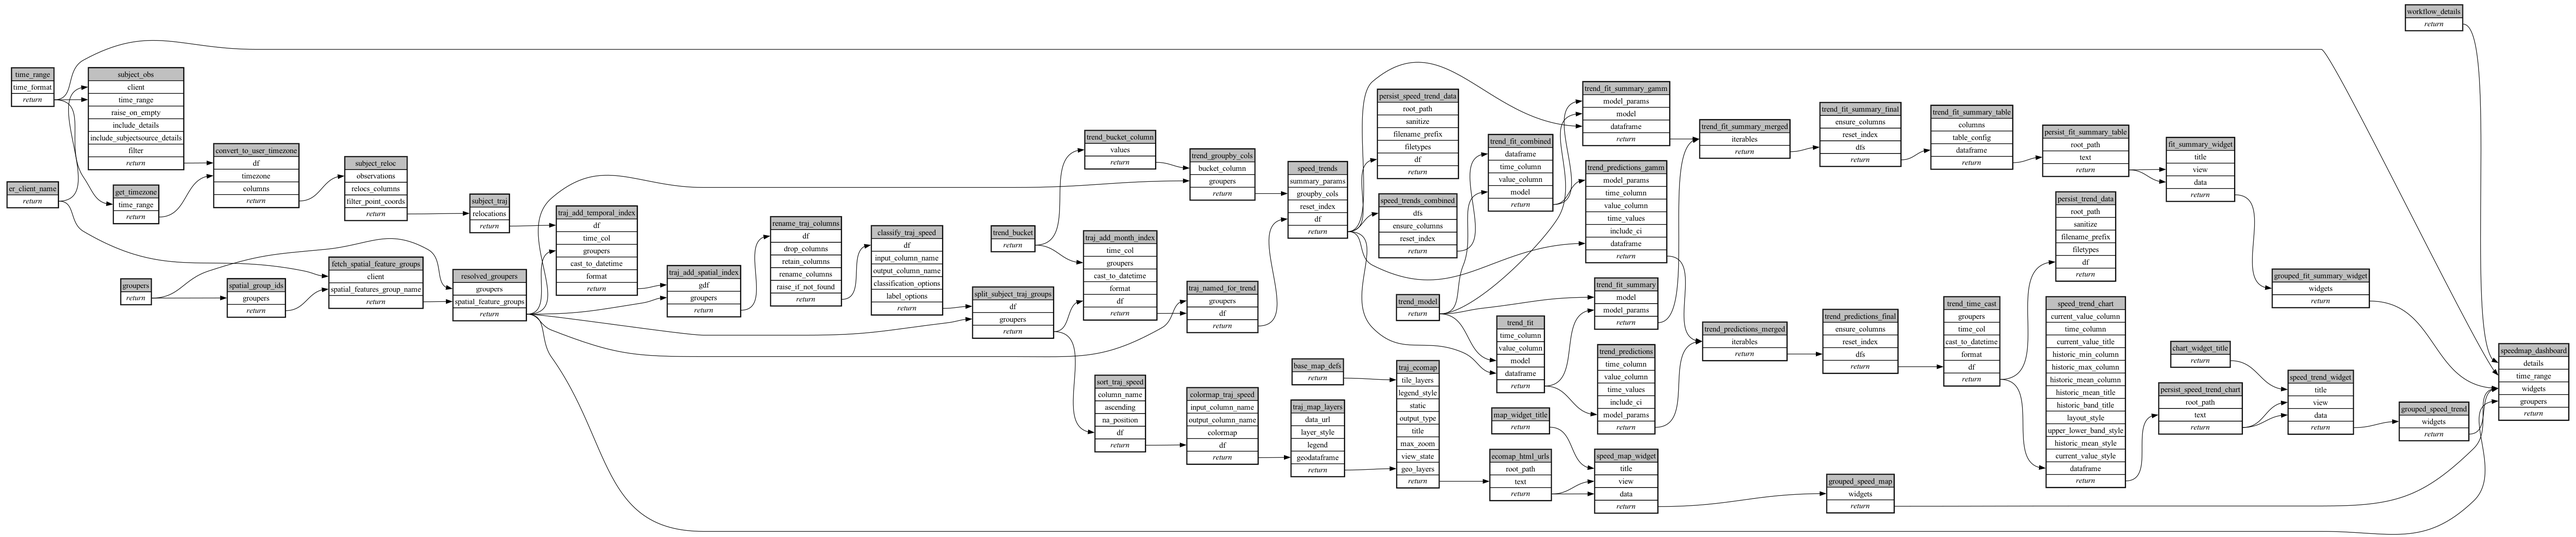
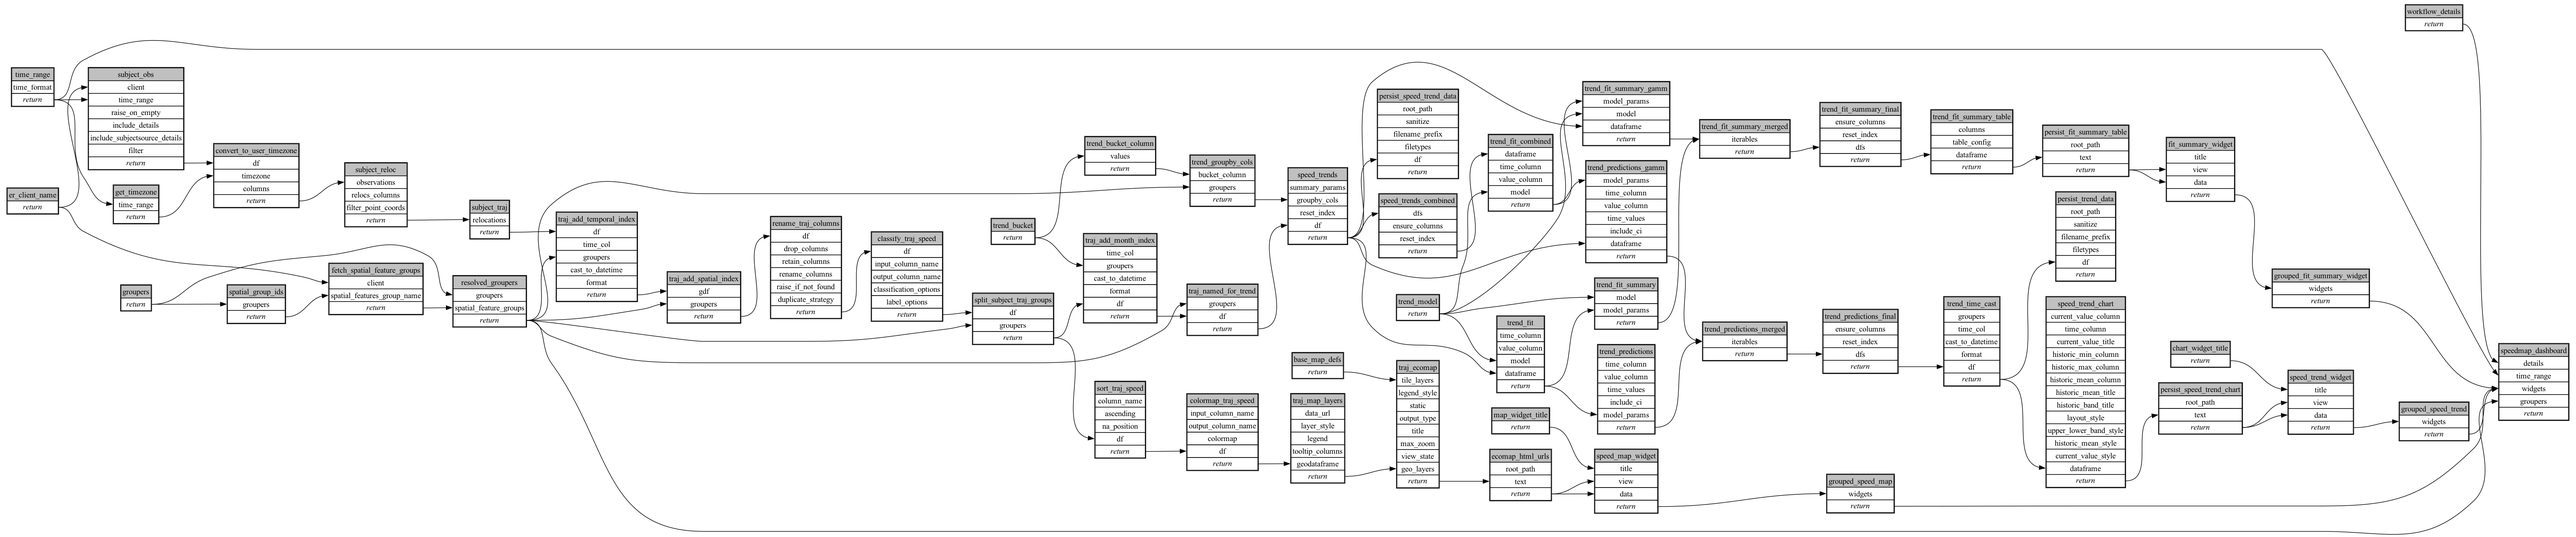
Pin tooltip_columns and duplicate_strategy to hide them from the form
tooltip_columns: None (show all properties) is the only sensible default
for the speed path layer - exposing it as an editable advanced field
added confusion with no real use case.

duplicate_strategy: locked to 'suffix' (its existing default) on the
rename step, since this workflow's column renames never actually
collide and the field had no real use case exposed either.

diff --git a/ecoscope-workflows-speedmap-workflow/ecoscope_workflows_speedmap_workflow/dags/run_sequential.py b/ecoscope-workflows-speedmap-workflow/ecoscope_workflows_speedmap_workflow/dags/run_sequential.py
@@ -410,6 +410,7 @@ def main(params: dict[str, Any], validate_params_schema: bool = True):
                 "extra__sex": "subject_sex",
             },
             raise_if_not_found=True,
+            duplicate_strategy="suffix",
             **(params.get("rename_traj_columns") or {}),
         )
         .call()
@@ -546,6 +547,7 @@ def main(params: dict[str, Any], validate_params_schema: bool = True):
                 "label_column": "speed_bins",
                 "color_column": "speed_bins_colormap",
             },
+            tooltip_columns=None,
             **(params.get("traj_map_layers") or {}),
         )
         .mapvalues(argnames=["geodataframe"], argvalues=colormap_traj_speed)

diff --git a/ecoscope-workflows-speedmap-workflow/ecoscope_workflows_speedmap_workflow/dags/run_sequential_mock_io.py b/ecoscope-workflows-speedmap-workflow/ecoscope_workflows_speedmap_workflow/dags/run_sequential_mock_io.py
@@ -425,6 +425,7 @@ def main(params: dict[str, Any], validate_params_schema: bool = True):
                 "extra__sex": "subject_sex",
             },
             raise_if_not_found=True,
+            duplicate_strategy="suffix",
             **(params.get("rename_traj_columns") or {}),
         )
         .call()
@@ -561,6 +562,7 @@ def main(params: dict[str, Any], validate_params_schema: bool = True):
                 "label_column": "speed_bins",
                 "color_column": "speed_bins_colormap",
             },
+            tooltip_columns=None,
             **(params.get("traj_map_layers") or {}),
         )
         .mapvalues(argnames=["geodataframe"], argvalues=colormap_traj_speed)

diff --git a/ecoscope-workflows-speedmap-workflow/README.md b/ecoscope-workflows-speedmap-workflow/README.md
@@ -5,8 +5,8 @@
 
 ```yaml
 # fingerprint:
-artifacts_sha256_basic: 8382983a14239d113fec91b4440c4bc62b2405bf6f03b848cc9fd40586e5b494
-artifacts_sha256_strict: e50e7d7ede30cf363d2bb14b54e5bc3bb91db9bab3eb468e02a9860ff7c94d9f
+artifacts_sha256_basic: 274c7f19d78318e060bdfb3afca48538db8ad435dee4f232fa699d38deb8271f
+artifacts_sha256_strict: 602ac065295bfed34ad1365d01fa808e82b0832cd28b0580c977d997ba7f0932
 installed_requirements:
 - channel: https://repo.prefix.dev/ecoscope-workflows/
   name: ecoscope-platform
@@ -26,8 +26,8 @@ installed_requirements:
 - channel: conda-forge
   name: pymc
   version: {version: ==6.3.1}
-params_sha256: 5ea584b4e8a972b4800b3f1b45d957aad0e60ecedecc95ac6af197cf89c8fc87
-spec_sha256: 17a94a707142fa6d353bd0be5ecd6f27e66d89bb9395f513f32835f753f19bc9
+params_sha256: 1ddd662cb1147978c587a558fa288cdbb6f723f67033a256a002c4ace2d3ebbe
+spec_sha256: 1b74b6c7a31569a0f8ce5171412d848e1a00218bd6103a4ecf2c6ec54bde86d9
 
 ```
 
